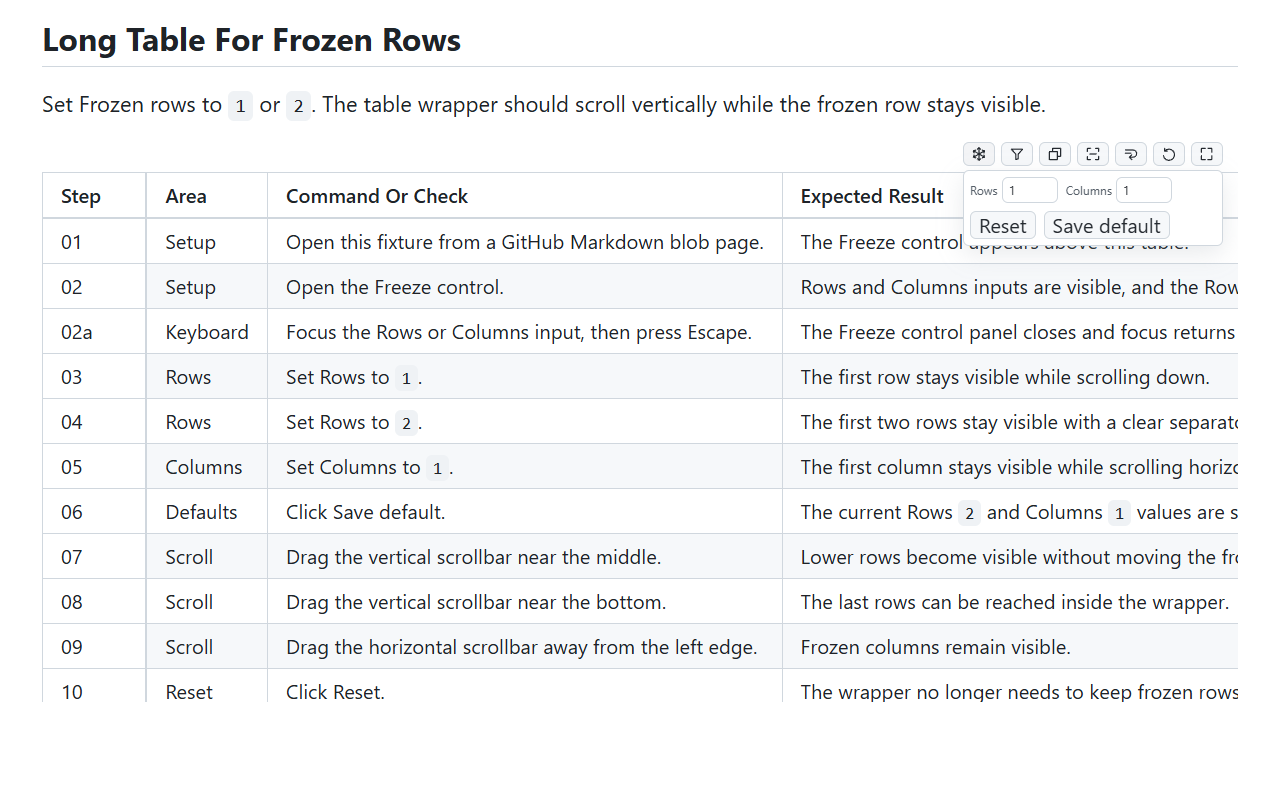
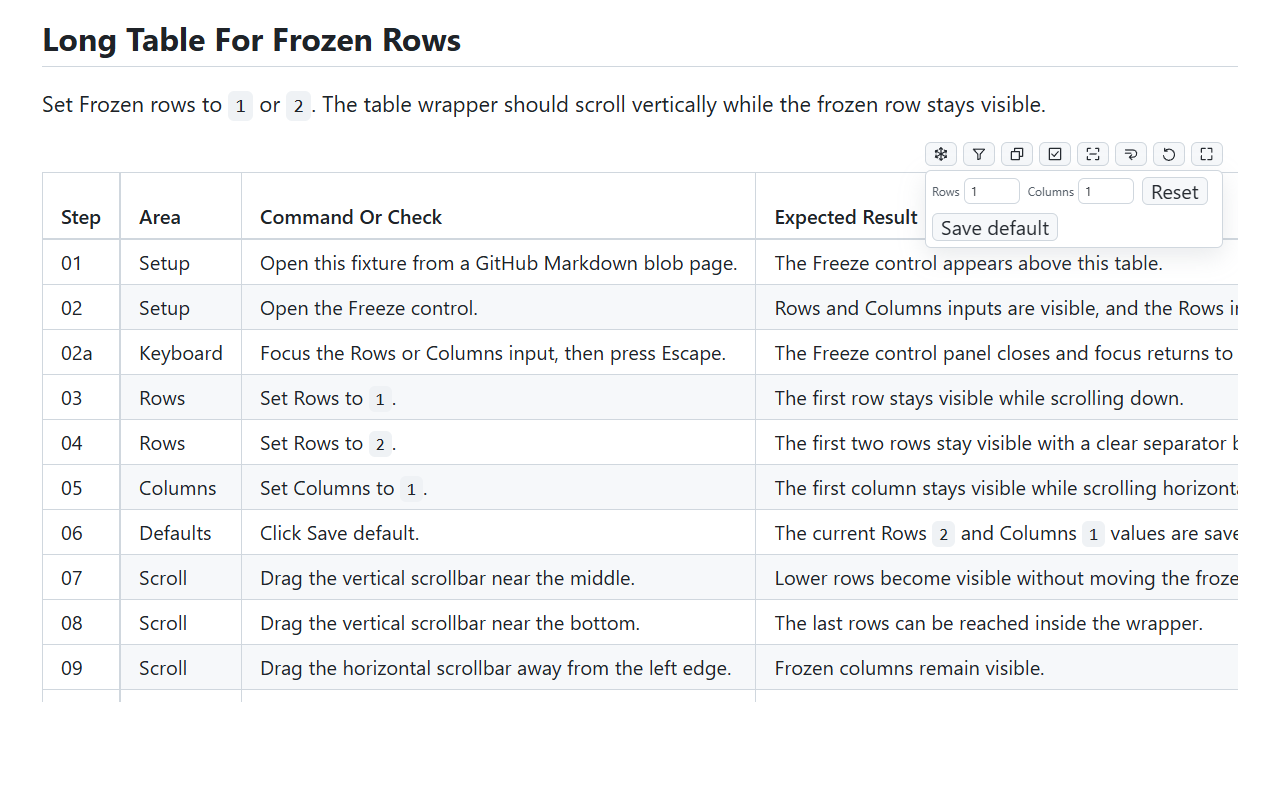
Prepare v1.6.0 release

Changed region(s): [[0.0312, 0.1875, 0.9688, 0.875]]

diff --git a/docs/chrome-web-store-listing.md b/docs/chrome-web-store-listing.md
@@ -43,18 +43,20 @@ and [creating a high-quality listing page](https://developer.chrome.com/docs/web
 - Recheck that localized descriptions do not add unsupported features or omit material privacy or
   scope details.
 
-## v1.5.1 Update Checklist
+## v1.6.0 Update Checklist
 
-For the v1.5.1 update:
+For the v1.6.0 update:
 
-- Upload `table-enhancer-for-github-v1.5.1.zip` from the
-  [v1.5.1 GitHub Release](https://github.com/Huruikagi/table-enhancer-for-github/releases/tag/v1.5.1).
-- Confirm the uploaded package reports version `1.5.1` before submitting it for review.
+- Upload `table-enhancer-for-github-v1.6.0.zip` from the
+  [v1.6.0 GitHub Release](https://github.com/Huruikagi/table-enhancer-for-github/releases/tag/v1.6.0).
+- Confirm the uploaded package reports version `1.6.0` before submitting it for review.
 - Update all six localized detailed descriptions with the locale drafts, including the new
-  collapsible YAML frontmatter panel.
+  row/column hover highlight and checkbox-based row selection.
 - Keep each locale's name and short description aligned with the packaged manifest messages.
 - Recheck the Privacy tab against [chrome-web-store-privacy.md](chrome-web-store-privacy.md).
-  v1.5.1 does not add permissions, remote code, network requests, or data collection.
+  v1.6.0 loads content scripts on `https://github.com/*` to detect navigation into Markdown
+  previews; table and metadata features remain limited to Markdown blob previews. The only
+  declared permission remains `storage`, with no remote code, network requests, or data collection.
 - Preview the listing and verify the version, descriptions, screenshots, support URL, and privacy
   policy before submitting the update.
 
@@ -66,14 +68,16 @@ that requirement are:
 - `docs/store-assets/screenshots/github-table-freeze-annotated-1280x800.png`
 - `docs/store-assets/screenshots/github-table-freeze-controls-1280x800.png`
 - `docs/store-assets/screenshots/user-guide-overview.png`
+- `docs/store-assets/screenshots/user-guide-hover.png`
+- `docs/store-assets/screenshots/user-guide-row-selection.png`
 - `docs/store-assets/screenshots/user-guide-freeze.png`
 - `docs/store-assets/screenshots/user-guide-filter.png`
 - `docs/store-assets/screenshots/user-guide-hide-and-restore.png`
 - `docs/store-assets/screenshots/user-guide-fit-and-wrap.png`
 - `docs/store-assets/screenshots/user-guide-focus-mode.png`
 
-The store accepts up to five screenshots. For v1.5.1, prioritize images that show the toolbar
-overview, filtering, Freeze controls, Fit/Wrap, and Focus mode. Do not upload
+The store accepts up to five screenshots. For v1.6.0, prioritize images that show the toolbar
+overview, hover highlighting, row selection, Freeze controls, and Focus mode. Do not upload
 `github-table-freeze-annotated.png`; its 1294 x 1081 dimensions do not meet the store screenshot
 requirement.
 

diff --git a/docs/chrome-web-store-listings/ko.md b/docs/chrome-web-store-listings/ko.md
@@ -19,12 +19,13 @@ GitHub 테이블 향상 도구는 Markdown 파일 미리보기 페이지의 표 
 위치 유지하기
 
 - 스크롤하는 동안 머리글 행과 왼쪽 열을 고정합니다.
+- 포인터가 있는 행과 열을 강조하여 넓은 표에서도 셀의 위치를 쉽게 확인합니다.
 - 자주 확인하는 표의 고정 기본값을 저장소와 제목별로 저장합니다.
 
 필요한 정보 찾기
 
 - 텍스트 또는 정규식으로 행을 필터링합니다.
-- 모든 열을 기준으로 정렬하거나 필요 없는 행과 열을 숨깁니다.
+- 원하는 열을 기준으로 정렬하고, 체크박스로 표시할 행을 선택하거나 필요 없는 열을 숨깁니다.
 
 작업에 맞게 보기 조정하기
 

diff --git a/docs/chrome-web-store-listings/es.md b/docs/chrome-web-store-listings/es.md
@@ -19,12 +19,13 @@ Mejorador de tablas para GitHub añade controles compactos justo encima de las t
 Mantén la orientación
 
 - Fija las filas de encabezado y las primeras columnas mientras te desplazas.
+- Resalta la fila y la columna bajo el puntero para seguir las celdas en tablas anchas.
 - Guarda valores predeterminados de fijación por repositorio y encabezado para las tablas que consultas con frecuencia.
 
 Encuentra lo importante
 
 - Filtra filas por texto o expresión regular.
-- Ordena por cualquier columna u oculta las filas y columnas que no necesitas.
+- Ordena por cualquier columna, elige las filas que quieres conservar con casillas de verificación u oculta las columnas que no necesitas.
 
 Adapta la vista a tu tarea
 

diff --git a/docs/chrome-web-store-listings/ja.md b/docs/chrome-web-store-listings/ja.md
@@ -19,12 +19,13 @@ GitHub Table Enhancerは、Markdownファイルプレビューの表にコンパ
 位置を見失わずに読む
 
 - 見出し行や左端の列を固定したままスクロール。
+- ポインターのある行・列をハイライトし、横長の表でもセルの位置を確認。
 - よく見る表の固定設定を、リポジトリと見出しごとに保存。
 
 必要な情報だけに絞る
 
 - テキストまたは正規表現で行をフィルター。
-- 列ごとの並べ替えや、不要な行・列の一時非表示。
+- 列ごとの並べ替え、チェックボックスによる表示する行の選択、不要な列の一時非表示。
 
 用途に合わせて読みやすくする
 

diff --git a/docs/chrome-web-store-listings/pt_BR.md b/docs/chrome-web-store-listings/pt_BR.md
@@ -19,12 +19,13 @@ O Aprimorador de tabelas para GitHub adiciona controles compactos diretamente ac
 Mantenha-se orientado
 
 - Fixe as linhas de cabeçalho e as primeiras colunas enquanto rola a tabela.
+- Realce a linha e a coluna sob o ponteiro para acompanhar as células em tabelas largas.
 - Salve padrões de fixação por repositório e título para as tabelas que você consulta com frequência.
 
 Encontre o que importa
 
 - Filtre linhas por texto ou expressão regular.
-- Ordene por qualquer coluna ou oculte linhas e colunas desnecessárias.
+- Ordene por qualquer coluna, escolha as linhas a manter com caixas de seleção ou oculte colunas desnecessárias.
 
 Adapte a visualização à sua tarefa
 

diff --git a/docs/chrome-web-store-listings/zh_CN.md b/docs/chrome-web-store-listings/zh_CN.md
@@ -19,12 +19,13 @@ GitHub 表格增强器会在 Markdown 文件预览页的表格上方添加紧凑
 保持方向感
 
 - 滚动时冻结表头行和左侧列。
+- 高亮显示指针所在的行和列，方便在宽表格中定位单元格。
 - 按仓库和标题保存常用表格的冻结默认设置。
 
 找到重要内容
 
 - 使用文本或正则表达式筛选行。
-- 按任意列排序，或隐藏不需要的行和列。
+- 按任意列排序，通过复选框选择要保留的行，或隐藏不需要的列。
 
 根据任务调整视图
 

diff --git a/docs/chrome-web-store-listings/en.md b/docs/chrome-web-store-listings/en.md
@@ -21,12 +21,13 @@ file.
 Stay oriented
 
 - Freeze header rows and leading columns while you scroll.
+- Highlight the row and column under the pointer to follow cells across wide tables.
 - Save Freeze defaults by repository and heading for the tables you revisit.
 
 Find what matters
 
 - Filter rows by text or regular expression.
-- Sort by any column, or hide rows and columns you do not need.
+- Sort by any column, select the rows to keep with checkboxes, or hide unwanted columns.
 
 Shape the view around your task
 
